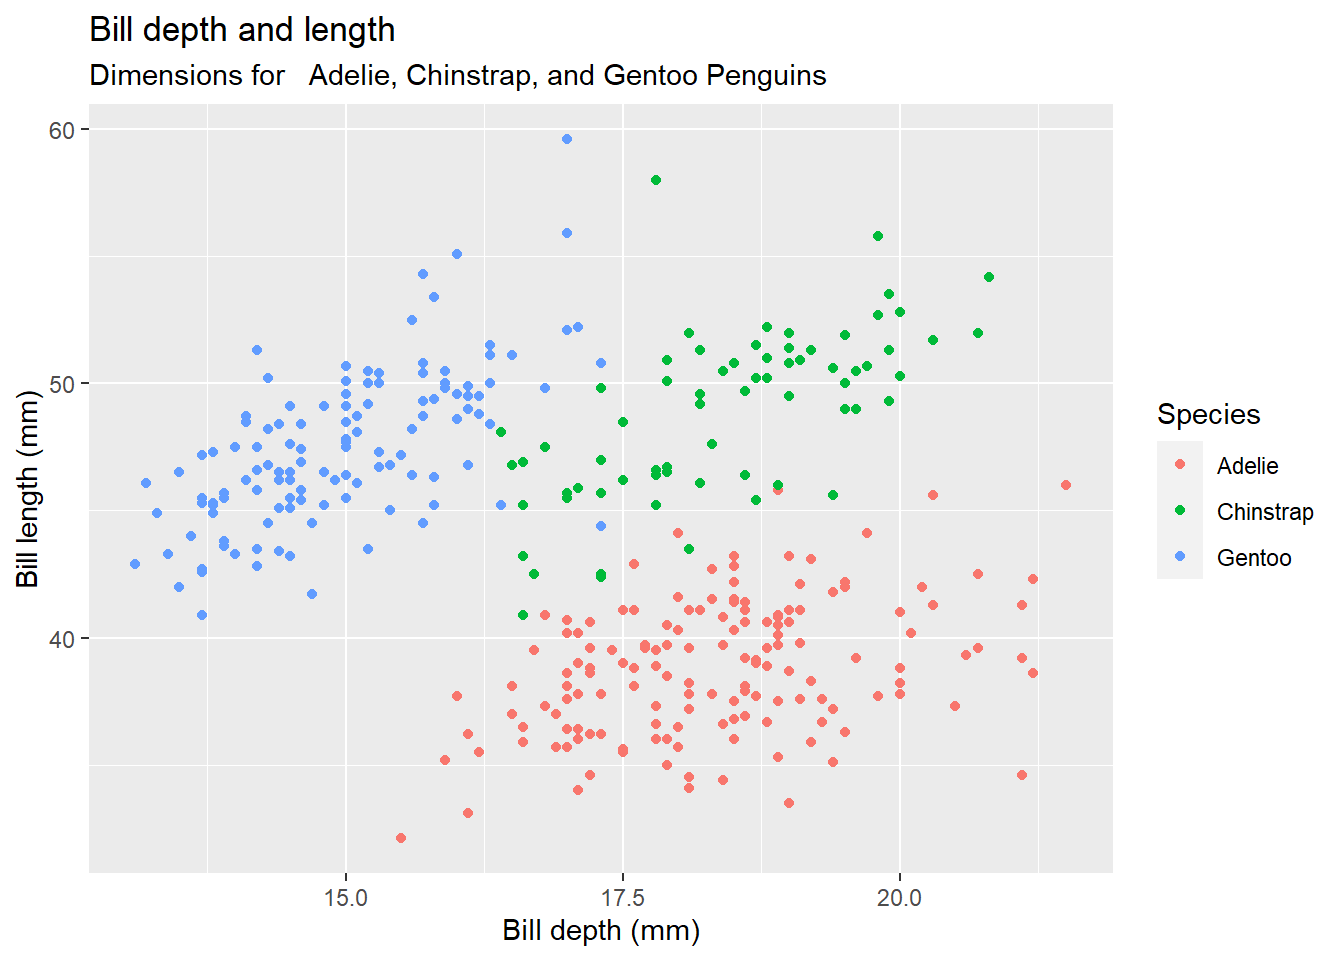
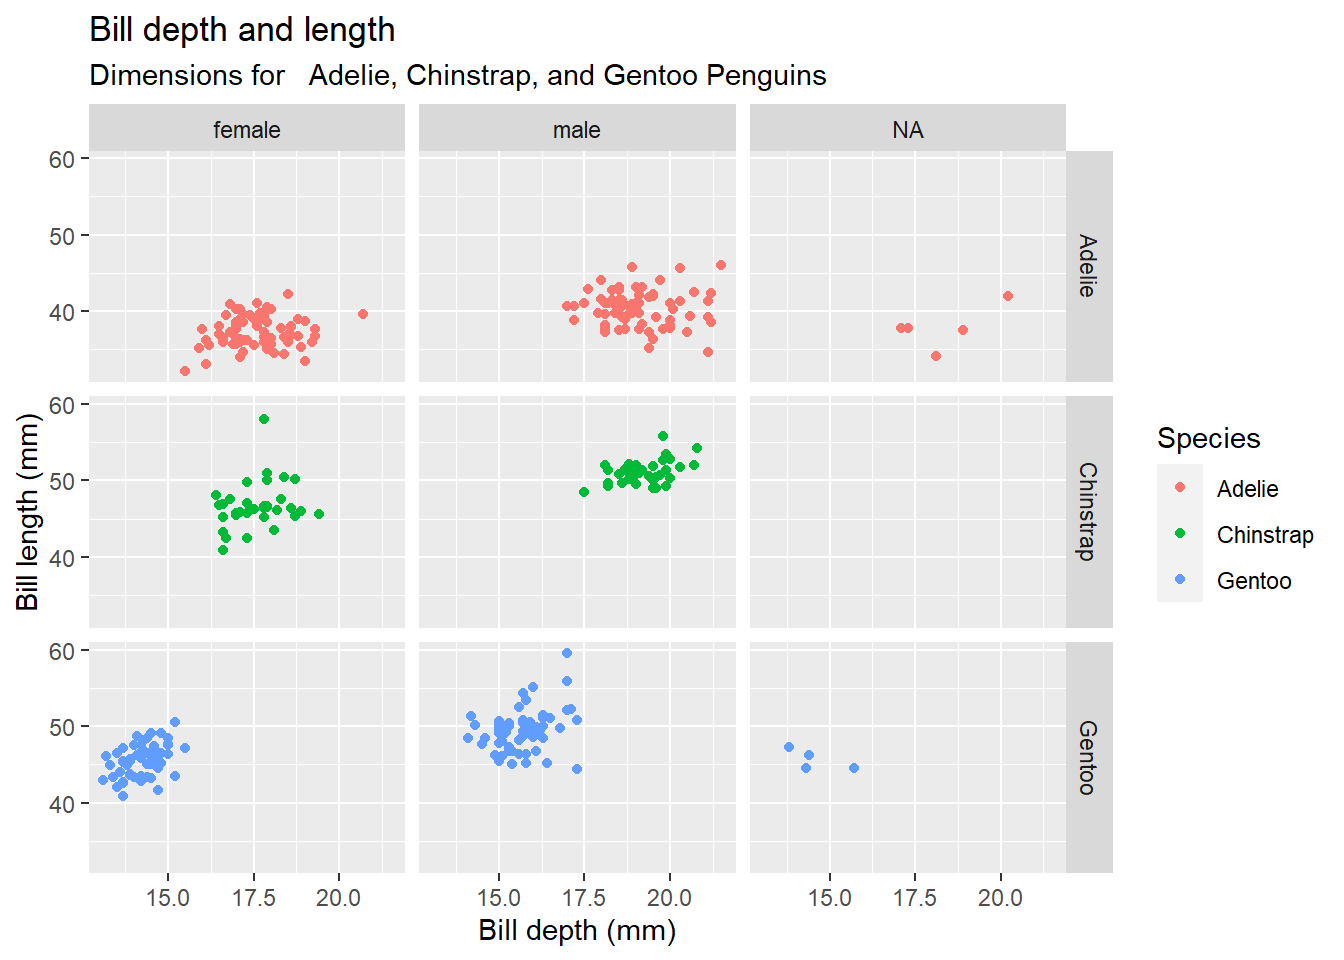
assignment 01.

diff --git a/public/2021/05/21/assignment-01/index.html b/public/2021/05/21/assignment-01/index.html
@@ -6,8 +6,8 @@
 <meta name="generator" content="Hugo 0.83.1" />
 
 
-<title>TracyJi&#39;s practices - Tracy - test</title>
-<meta property="og:title" content="TracyJi&#39;s practices - Tracy - test">
+<title>Assignment 01 - Tracy - test</title>
+<meta property="og:title" content="Assignment 01 - Tracy - test">
 
 
   <link href='/favicon.ico' rel='icon' type='image/x-icon'/>
@@ -57,13 +57,29 @@
 
   <article class="article">
     
+    <span class="article-duration">1 min read</span>
+    
 
-    <h1 class="article-title">TracyJi&#39;s practices</h1>
+    <h1 class="article-title">Assignment 01</h1>
 
+    
+    <span class="article-date">2021-05-21</span>
     
 
     <div class="article-content">
-      <p>This is a &ldquo;hello world&rdquo; example website for the [<strong>Tracy Ji&rsquo;s</strong>]first try.</p>
+      
+<script src="/2021/05/21/assignment-01/index_files/header-attrs/header-attrs.js"></script>
+
+
+<div id="temperature-vs-pressure" class="section level2">
+<h2>Temperature vs Pressure</h2>
+<p>We will study the relationship between temperature and pressure through a density plot</p>
+<p><img src="/2021/05/21/assignment-01/index_files/figure-html/unnamed-chunk-1-1.png" width="672" /></p>
+<ul>
+<li><p>From the chart above we could easily found the temperature and pressure may have certain positive relation.</p></li>
+<li><p>However, we still need a larger sample to test our observations.</p></li>
+</ul>
+</div>
 
     </div>
   </article>

diff --git a/content/post/2021-05-21-assignment-01/index.html b/content/post/2021-05-21-assignment-01/index.html
@@ -1,0 +1,22 @@
+---
+title: Assignment 01
+author: TracyJi
+date: '2021-05-21'
+slug: assignment-01
+categories:
+  - ggplot2
+tags: []
+---
+
+<script src="{{< blogdown/postref >}}index_files/header-attrs/header-attrs.js"></script>
+
+
+<div id="temperature-vs-pressure" class="section level2">
+<h2>Temperature vs Pressure</h2>
+<p>We will study the relationship between temperature and pressure through a density plot</p>
+<p><img src="{{< blogdown/postref >}}index_files/figure-html/unnamed-chunk-1-1.png" width="672" /></p>
+<ul>
+<li><p>From the chart above we could easily found the temperature and pressure may have certain positive relation.</p></li>
+<li><p>However, we still need a larger sample to test our observations.</p></li>
+</ul>
+</div>

diff --git a/content/post/2021-05-21-assignment-01/index_files/header-attrs/header-attrs.js b/content/post/2021-05-21-assignment-01/index_files/header-attrs/header-attrs.js
@@ -1,0 +1,12 @@
+// Pandoc 2.9 adds attributes on both header and div. We remove the former (to
+// be compatible with the behavior of Pandoc < 2.8).
+document.addEventListener('DOMContentLoaded', function(e) {
+  var hs = document.querySelectorAll("div.section[class*='level'] > :first-child");
+  var i, h, a;
+  for (i = 0; i < hs.length; i++) {
+    h = hs[i];
+    if (!/^h[1-6]$/i.test(h.tagName)) continue;  // it should be a header h1-h6
+    a = h.attributes;
+    while (a.length > 0) h.removeAttribute(a[0].name);
+  }
+});

diff --git a/public/2021/05/21/assignment-01/index_files/header-attrs/header-attrs.js b/public/2021/05/21/assignment-01/index_files/header-attrs/header-attrs.js
@@ -1,0 +1,12 @@
+// Pandoc 2.9 adds attributes on both header and div. We remove the former (to
+// be compatible with the behavior of Pandoc < 2.8).
+document.addEventListener('DOMContentLoaded', function(e) {
+  var hs = document.querySelectorAll("div.section[class*='level'] > :first-child");
+  var i, h, a;
+  for (i = 0; i < hs.length; i++) {
+    h = hs[i];
+    if (!/^h[1-6]$/i.test(h.tagName)) continue;  // it should be a header h1-h6
+    a = h.attributes;
+    while (a.length > 0) h.removeAttribute(a[0].name);
+  }
+});

diff --git a/public/categories/ggplot2/index.html b/public/categories/ggplot2/index.html
@@ -65,6 +65,13 @@
     <h2 class="archive-title">2021</h2>
     
     <article class="archive-item">
+      <a href="/2021/05/21/assignment-01/" class="archive-item-link">Assignment 01</a>
+      <span class="archive-item-date">
+        2021-05-21
+      </span>
+    </article>
+    
+    <article class="archive-item">
       <a href="/2021/05/18/data-visualization-using-ggplot2/" class="archive-item-link">Data visualization using ggplot2</a>
       <span class="archive-item-date">
         2021-05-18

diff --git a/public/index.html b/public/index.html
@@ -68,6 +68,13 @@
     <h2 class="archive-title">2021</h2>
     
     <article class="archive-item">
+      <a href="/2021/05/21/assignment-01/" class="archive-item-link">Assignment 01</a>
+      <span class="archive-item-date">
+        2021-05-21
+      </span>
+    </article>
+    
+    <article class="archive-item">
       <a href="/2021/05/18/data-visualization-using-ggplot2/" class="archive-item-link">Data visualization using ggplot2</a>
       <span class="archive-item-date">
         2021-05-18

diff --git a/public/post/index.html b/public/post/index.html
@@ -65,6 +65,13 @@
     <h2 class="archive-title">2021</h2>
     
     <article class="archive-item">
+      <a href="/2021/05/21/assignment-01/" class="archive-item-link">Assignment 01</a>
+      <span class="archive-item-date">
+        2021-05-21
+      </span>
+    </article>
+    
+    <article class="archive-item">
       <a href="/2021/05/18/data-visualization-using-ggplot2/" class="archive-item-link">Data visualization using ggplot2</a>
       <span class="archive-item-date">
         2021-05-18

diff --git a/public/categories/index.html b/public/categories/index.html
@@ -67,7 +67,7 @@
     <article class="archive-item">
       <a href="/categories/ggplot2/" class="archive-item-link">ggplot2</a>
       <span class="archive-item-date">
-        2021-05-18
+        2021-05-21
       </span>
     </article>
     

diff --git a/content/about.md b/content/about.md
@@ -1,6 +1,6 @@
 ---
 date: "2016-05-05T21:48:51-07:00"
-title: About
+title: TracyJi's practices
 ---
 
-This is a "hello world" example website for the [**blogdown**](https://github.com/rstudio/blogdown) package. The theme was forked from [@jrutheiser/hugo-lithium-theme](https://github.com/jrutheiser/hugo-lithium-theme) and modified by [Yihui Xie](https://github.com/yihui/hugo-lithium).
+This is a "hello world" example website for the [**Tracy Ji's**]first try.
